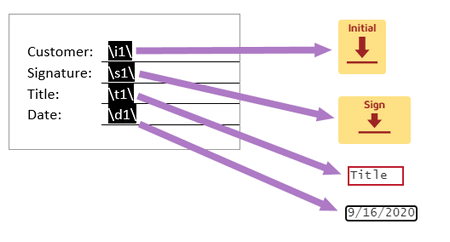
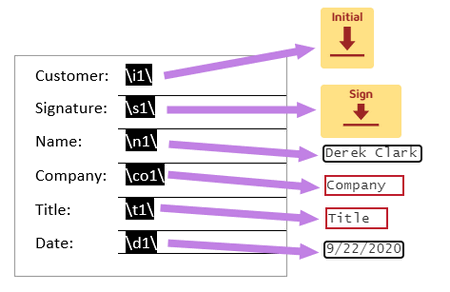
docusign tags updates

diff --git a/source/user-guide/processes/deliveries/docusign.rst b/source/user-guide/processes/deliveries/docusign.rst
@@ -99,7 +99,7 @@ Supported tags:
         - \\d4\\ 
         - \\d5\\ 
 
-See how the tags will appear in the document for signers. The date signed is auto-filled.
+See how the tags will appear in the document for signers. The name and date signed are auto-filled.
 
 .. image:: ../../../_static/img/user-guide/processes/how-tos/docusign-anchor-text.png
     :alt: DocuSign anchor text
